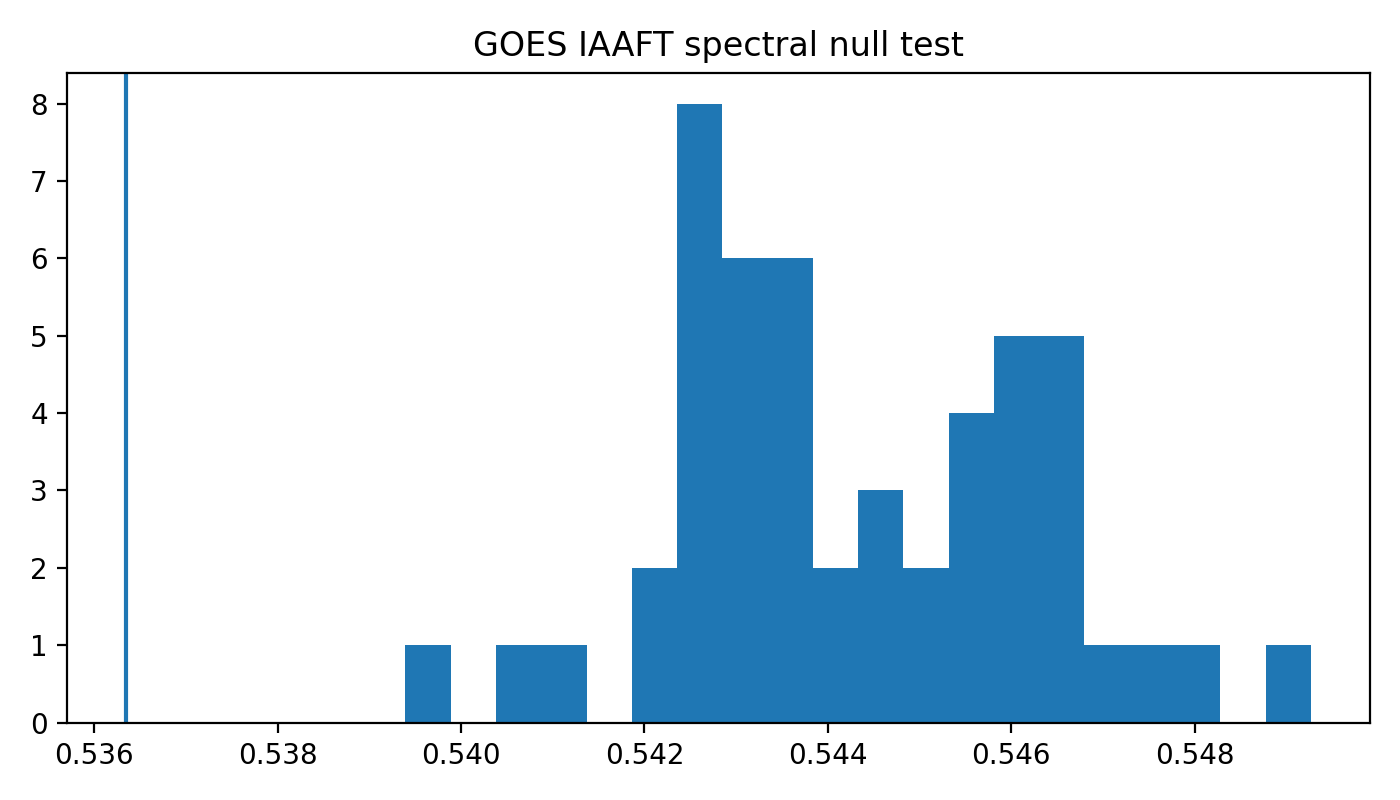
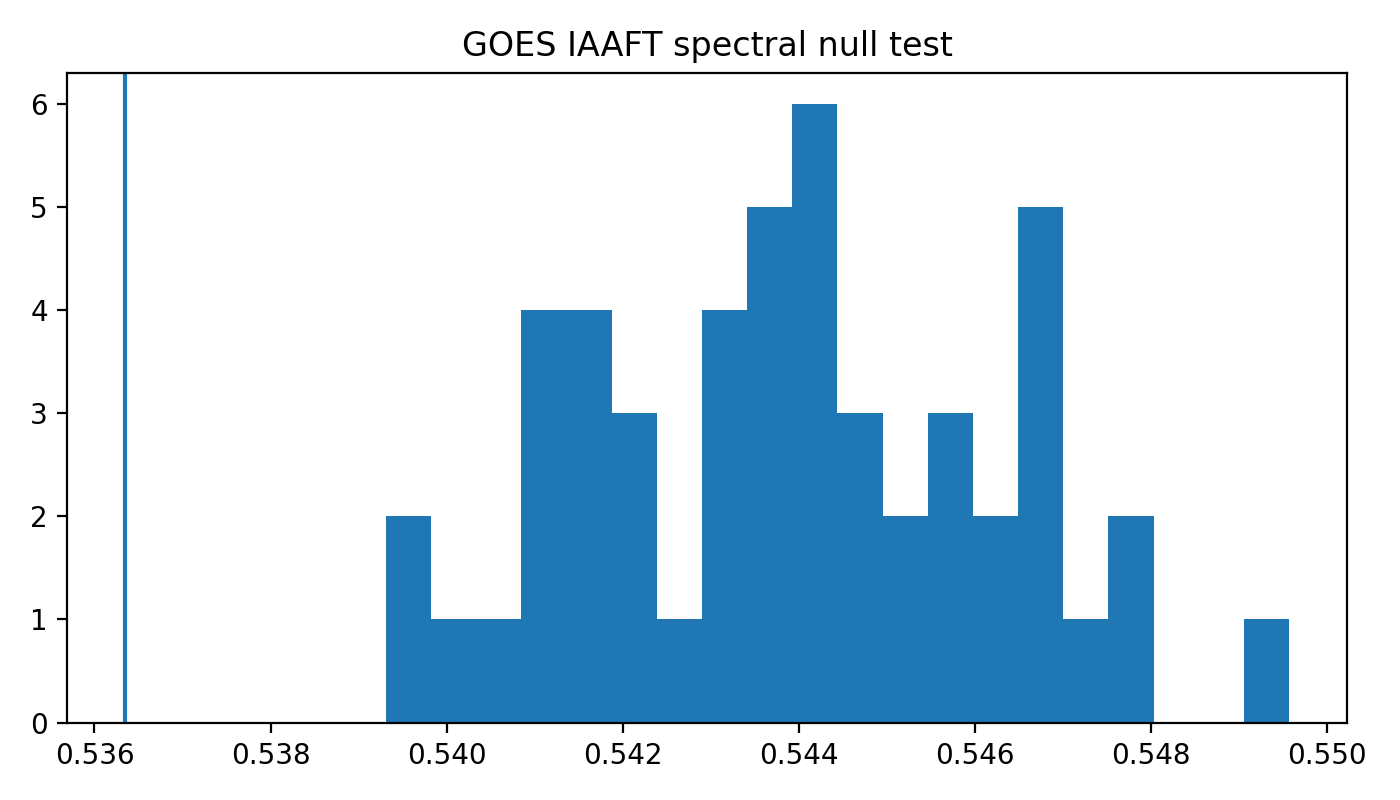
Add Makefile for one-command pipeline rebuild

diff --git a/reports/qsd_report.md b/reports/qsd_report.md
@@ -22,9 +22,9 @@ domain  eta_real  eta_null_mean  eta_percentile  eta_p_value
 ## 3. Spectral Null Summary (IAAFT)
 
 domain  eta_real  eta_null_mean  eta_percentile  eta_p_value
-  GOES  0.536351       0.544282             0.0          1.0
-    Kp  0.915949       0.822627             1.0          0.0
-  LIGO  0.549949       0.549267             0.9          0.1
+  GOES  0.536351       0.543948            0.00         1.00
+    Kp  0.915949       0.819905            1.00         0.00
+  LIGO  0.549949       0.549461            0.82         0.18
 
 ## 4. Master Summary Table
 
